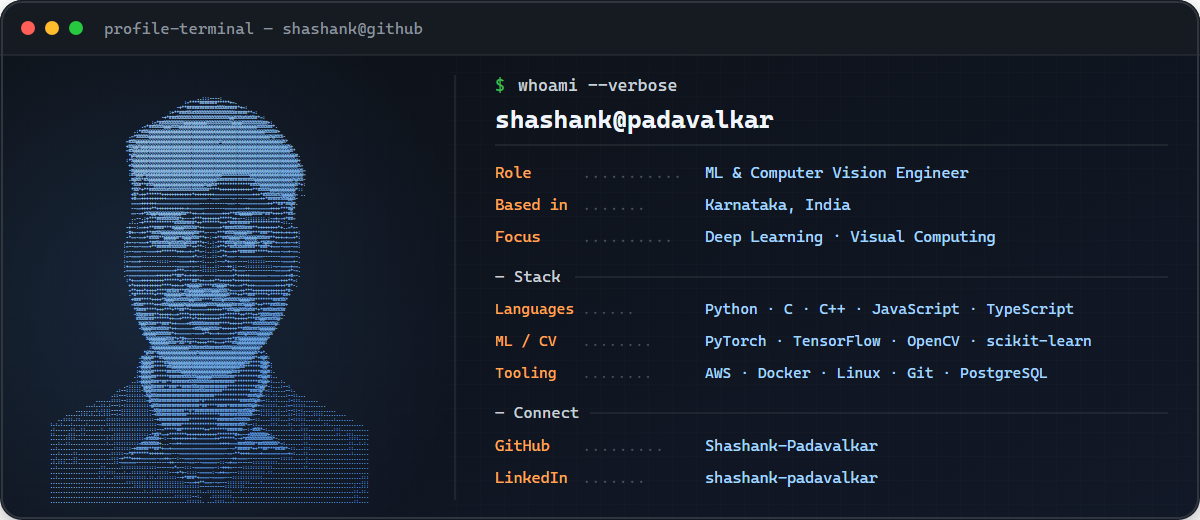
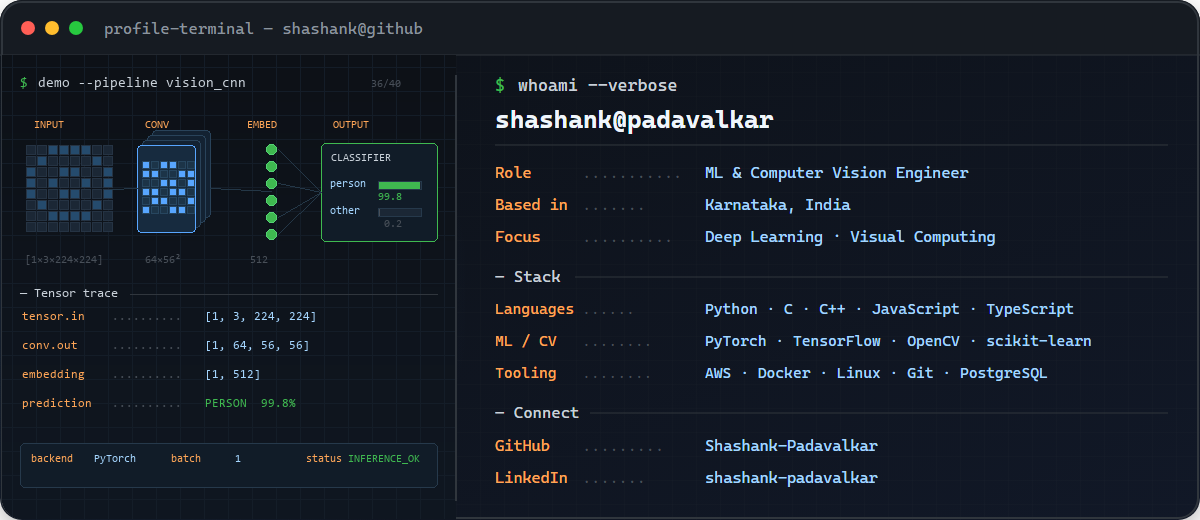
Add animated neural inference pipeline

diff --git a/scripts/render_neural_pipeline.py b/scripts/render_neural_pipeline.py
@@ -1,0 +1,334 @@
+"""Render the animated neural-network pipeline used in the profile README."""
+
+from __future__ import annotations
+
+import math
+from pathlib import Path
+
+from PIL import Image, ImageChops, ImageDraw, ImageFont
+
+
+ROOT = Path(__file__).resolve().parents[1]
+ASSETS = ROOT / "assets"
+BASE_PATH = ASSETS / "profile-terminal.png"
+GIF_PATH = ASSETS / "profile-terminal.gif"
+PNG_PATH = ASSETS / "profile-terminal.png"
+
+WIDTH, HEIGHT = 1200, 520
+FRAME_COUNT = 40
+FRAME_DURATION_MS = 90
+
+FONT_REGULAR = Path(r"C:\Windows\Fonts\consola.ttf")
+FONT_BOLD = Path(r"C:\Windows\Fonts\consolab.ttf")
+
+BG = "#0d1117"
+BG_ALT = "#101722"
+PANEL = "#161b22"
+BORDER = "#30363d"
+MUTED = "#484f58"
+TEXT = "#c9d1d9"
+WHITE = "#f0f6fc"
+BLUE = "#58a6ff"
+LIGHT_BLUE = "#a5d6ff"
+GREEN = "#3fb950"
+ORANGE = "#ffa657"
+
+
+def font(size: int, *, bold: bool = False) -> ImageFont.FreeTypeFont:
+    return ImageFont.truetype(str(FONT_BOLD if bold else FONT_REGULAR), size)
+
+
+FONT_11 = font(11)
+FONT_12 = font(12)
+FONT_13 = font(13)
+FONT_13_BOLD = font(13, bold=True)
+FONT_14 = font(14)
+FONT_15_BOLD = font(15, bold=True)
+
+
+def clamp(value: float, low: float = 0.0, high: float = 1.0) -> float:
+    return max(low, min(high, value))
+
+
+def smoothstep(value: float) -> float:
+    value = clamp(value)
+    return value * value * (3.0 - 2.0 * value)
+
+
+def phase(progress: float, start: float, end: float) -> float:
+    return smoothstep((progress - start) / (end - start))
+
+
+def interpolate(start: tuple[float, float], end: tuple[float, float], amount: float) -> tuple[float, float]:
+    return (
+        start[0] + (end[0] - start[0]) * amount,
+        start[1] + (end[1] - start[1]) * amount,
+    )
+
+
+def reset_left_pane(base: Image.Image) -> Image.Image:
+    frame = base.convert("RGB").copy()
+
+    pane = Image.new("RGB", (WIDTH, HEIGHT), BG)
+    pane_draw = ImageDraw.Draw(pane)
+    for y in range(55, 519):
+        amount = (y - 55) / 464
+        color = (
+            int(13 + 3 * amount),
+            int(17 + 6 * amount),
+            int(23 + 10 * amount),
+        )
+        pane_draw.line((0, y, 455, y), fill=color)
+
+    for x in range(12, 456, 24):
+        pane_draw.line((x, 55, x, 518), fill="#141d28", width=1)
+    for y in range(67, 519, 24):
+        pane_draw.line((2, y, 455, y), fill="#141d28", width=1)
+
+    card_mask = Image.new("L", (WIDTH, HEIGHT), 0)
+    card_mask_draw = ImageDraw.Draw(card_mask)
+    card_mask_draw.rounded_rectangle((2, 2, 1198, 518), radius=20, fill=255)
+
+    pane_mask = Image.new("L", (WIDTH, HEIGHT), 0)
+    pane_mask_draw = ImageDraw.Draw(pane_mask)
+    pane_mask_draw.rectangle((2, 55, 455, 518), fill=255)
+    pane_mask = ImageChops.multiply(card_mask, pane_mask)
+    frame.paste(pane, (0, 0), pane_mask)
+
+    draw = ImageDraw.Draw(frame)
+    draw.line((455, 75, 455, 500), fill=BORDER, width=2)
+    return frame
+
+
+def draw_glow_dot(frame: Image.Image, position: tuple[float, float], color: str, radius: int = 4) -> None:
+    x, y = position
+    draw = ImageDraw.Draw(frame, "RGB")
+    draw.ellipse((x - radius * 2, y - radius * 2, x + radius * 2, y + radius * 2), outline=MUTED, width=1)
+    draw.ellipse((x - radius, y - radius, x + radius, y + radius), fill=color)
+    draw.ellipse((x - 1, y - 1, x + 1, y + 1), fill=WHITE)
+
+
+def draw_dotted_row(
+    draw: ImageDraw.ImageDraw,
+    y: int,
+    key: str,
+    value: str,
+    *,
+    value_color: str = LIGHT_BLUE,
+) -> None:
+    draw.text((22, y), key, font=FONT_12, fill=ORANGE)
+    draw.text((112, y), "." * 10, font=FONT_12, fill=MUTED)
+    draw.text((205, y), value, font=FONT_12, fill=value_color)
+
+
+def draw_input_tensor(draw: ImageDraw.ImageDraw, scan: float) -> tuple[float, float]:
+    origin_x, origin_y = 26, 145
+    cell, gap = 9, 2
+    pixels = (
+        "..####..",
+        ".#....#.",
+        "#..##..#",
+        "#.#..#.#",
+        "#..##..#",
+        ".#....#.",
+        "..####..",
+        "........",
+    )
+    scan_row = int(scan * len(pixels))
+
+    for row, pattern in enumerate(pixels):
+        for col, bit in enumerate(pattern):
+            x = origin_x + col * (cell + gap)
+            y = origin_y + row * (cell + gap)
+            active = bit == "#"
+            fill = "#1b2735" if not active else "#254b6d"
+            outline = "#253343"
+            if row == scan_row:
+                fill = LIGHT_BLUE if active else "#1b3951"
+                outline = BLUE
+            draw.rectangle((x, y, x + cell, y + cell), fill=fill, outline=outline)
+
+    return origin_x + 8 * (cell + gap), origin_y + 4 * (cell + gap)
+
+
+def draw_feature_maps(draw: ImageDraw.ImageDraw, activation: float) -> tuple[float, float]:
+    x, y = 137, 145
+    for layer in range(3, -1, -1):
+        offset = layer * 5
+        shade = "#132232" if layer else "#172b3f"
+        edge = BLUE if activation > 0.45 and layer == 0 else "#29435a"
+        draw.rounded_rectangle((x + offset, y - offset, x + 58 + offset, y + 87 - offset), radius=4, fill=shade, outline=edge, width=1)
+
+    front_x, front_y = x, y
+    grid = 6
+    size = 7
+    gap = 2
+    wave_col = int(activation * grid)
+    for row in range(grid):
+        for col in range(grid):
+            px = front_x + 5 + col * (size + gap)
+            py = front_y + 16 + row * (size + gap)
+            energy = (row * 3 + col * 5) % 7
+            lit = activation > 0.15 and col <= wave_col and energy < 4
+            draw.rectangle(
+                (px, py, px + size, py + size),
+                fill=BLUE if lit else "#1c3448",
+                outline="#27465f",
+            )
+    return x + 73, y + 43
+
+
+def draw_embedding(draw: ImageDraw.ImageDraw, activation: float) -> tuple[float, float]:
+    x = 271
+    ys = [149, 166, 183, 200, 217, 234]
+    for index, y in enumerate(ys):
+        node_activation = phase(activation, index / 8, (index + 2) / 8)
+        radius = 5
+        fill = GREEN if node_activation > 0.55 else "#193226"
+        outline = "#54d174" if node_activation > 0.25 else "#2d5a3b"
+        draw.ellipse((x - radius, y - radius, x + radius, y + radius), fill=fill, outline=outline)
+    return x + 7, sum(ys) / len(ys)
+
+
+def draw_output(draw: ImageDraw.ImageDraw, activation: float) -> tuple[float, float]:
+    x, y, width, height = 321, 143, 116, 98
+    edge = GREEN if activation > 0.75 else "#29435a"
+    draw.rounded_rectangle((x, y, x + width, y + height), radius=5, fill="#111c28", outline=edge)
+    draw.text((x + 10, y + 9), "CLASSIFIER", font=FONT_11, fill=TEXT)
+
+    person_value = 0.998 * activation
+    other_value = max(0.002 * activation, 0.0)
+    bars = (("person", person_value, GREEN), ("other", other_value, MUTED))
+    for index, (label, value, color) in enumerate(bars):
+        row_y = y + 35 + index * 27
+        draw.text((x + 9, row_y), label, font=FONT_11, fill=LIGHT_BLUE)
+        bar_x = x + 57
+        draw.rectangle((bar_x, row_y + 3, bar_x + 43, row_y + 11), fill="#1b2735", outline="#26394b")
+        draw.rectangle((bar_x + 1, row_y + 4, bar_x + 1 + int(41 * value), row_y + 10), fill=color)
+        percentage = f"{value * 100:4.1f}" if activation > 0.05 else " -- "
+        draw.text((bar_x, row_y + 13), percentage, font=FONT_11, fill=color)
+    return x, y + height / 2
+
+
+def draw_pipeline(frame: Image.Image, index: int) -> Image.Image:
+    draw = ImageDraw.Draw(frame)
+    progress = index / (FRAME_COUNT - 1)
+
+    input_activation = phase(progress, 0.00, 0.23) * (1.0 - phase(progress, 0.94, 1.00))
+    conv_activation = phase(progress, 0.18, 0.48) * (1.0 - phase(progress, 0.94, 1.00))
+    embed_activation = phase(progress, 0.42, 0.72) * (1.0 - phase(progress, 0.96, 1.00))
+    output_activation = phase(progress, 0.68, 0.88) * (1.0 - phase(progress, 0.94, 1.00))
+
+    draw.text((20, 76), "$", font=FONT_14, fill=GREEN)
+    draw.text((38, 76), "demo --pipeline vision_cnn", font=FONT_14, fill=TEXT)
+    draw.text((371, 78), f"{index + 1:02d}/{FRAME_COUNT}", font=FONT_11, fill=MUTED)
+
+    stage_y = 119
+    draw.text((34, stage_y), "INPUT", font=FONT_11, fill=ORANGE)
+    draw.text((145, stage_y), "CONV", font=FONT_11, fill=ORANGE)
+    draw.text((247, stage_y), "EMBED", font=FONT_11, fill=ORANGE)
+    draw.text((333, stage_y), "OUTPUT", font=FONT_11, fill=ORANGE)
+
+    input_end = draw_input_tensor(draw, input_activation)
+    conv_center = draw_feature_maps(draw, conv_activation)
+    embed_center = draw_embedding(draw, embed_activation)
+    output_center = draw_output(draw, output_activation)
+
+    input_anchor = (input_end[0] - 4, input_end[1])
+    conv_anchor_left = (137, conv_center[1])
+    conv_anchor_right = (conv_center[0], conv_center[1])
+    embed_anchor = (271, embed_center[1])
+    output_anchor = (321, output_center[1])
+
+    edges = (
+        (input_anchor, conv_anchor_left),
+        (conv_anchor_right, embed_anchor),
+        ((278, 149), output_anchor),
+        ((278, 183), output_anchor),
+        ((278, 217), output_anchor),
+        ((278, 234), output_anchor),
+    )
+    for start, end in edges:
+        draw.line((*start, *end), fill="#243747", width=1)
+
+    if 0.13 <= progress <= 0.42:
+        amount = phase(progress, 0.13, 0.42)
+        draw_glow_dot(frame, interpolate(input_anchor, conv_anchor_left, amount), BLUE)
+    if 0.34 <= progress <= 0.67:
+        amount = phase(progress, 0.34, 0.67)
+        draw_glow_dot(frame, interpolate(conv_anchor_right, embed_anchor, amount), LIGHT_BLUE)
+    if 0.57 <= progress <= 0.88:
+        amount = phase(progress, 0.57, 0.88)
+        for offset, node_y in enumerate((149, 183, 217)):
+            local = clamp(amount - offset * 0.08)
+            draw_glow_dot(frame, interpolate((278, node_y), output_anchor, local), GREEN, radius=3)
+
+    draw.text((25, 254), "[1×3×224×224]", font=FONT_11, fill=MUTED)
+    draw.text((145, 254), "64×56²", font=FONT_11, fill=MUTED)
+    draw.text((250, 254), "512", font=FONT_11, fill=MUTED)
+
+    draw.text((20, 287), "— Tensor trace", font=FONT_13, fill=TEXT)
+    draw.line((130, 294, 437, 294), fill=BORDER)
+
+    draw_dotted_row(draw, 311, "tensor.in", "[1, 3, 224, 224]")
+    draw_dotted_row(draw, 340, "conv.out", "[1, 64, 56, 56]")
+    draw_dotted_row(draw, 369, "embedding", "[1, 512]")
+    prediction = "PERSON  99.8%" if output_activation > 0.9 else "pending..."
+    draw_dotted_row(draw, 398, "prediction", prediction, value_color=GREEN if output_activation > 0.9 else MUTED)
+
+    status = (
+        "ENCODING"
+        if progress < 0.24
+        else "CONVOLVING"
+        if progress < 0.52
+        else "EMBEDDING"
+        if progress < 0.74
+        else "INFERENCE_OK"
+        if progress < 0.94
+        else "RESET"
+    )
+    draw.rounded_rectangle((20, 443, 437, 487), radius=5, fill="#111c28", outline="#26394b")
+    draw.text((31, 453), "backend", font=FONT_11, fill=ORANGE)
+    draw.text((94, 453), "PyTorch", font=FONT_11, fill=LIGHT_BLUE)
+    draw.text((171, 453), "batch", font=FONT_11, fill=ORANGE)
+    draw.text((235, 453), "1", font=FONT_11, fill=LIGHT_BLUE)
+    draw.text((306, 453), "status", font=FONT_11, fill=ORANGE)
+    draw.text((348, 453), status, font=FONT_11, fill=GREEN if status == "INFERENCE_OK" else LIGHT_BLUE)
+
+    return frame
+
+
+def render() -> None:
+    if not BASE_PATH.exists():
+        raise FileNotFoundError(f"Base profile card not found: {BASE_PATH}")
+
+    base = Image.open(BASE_PATH).convert("RGB")
+    if base.size != (WIDTH, HEIGHT):
+        raise ValueError(f"Expected {WIDTH}x{HEIGHT}, got {base.size[0]}x{base.size[1]}")
+
+    clean_base = reset_left_pane(base)
+    frames = [draw_pipeline(clean_base.copy(), index) for index in range(FRAME_COUNT)]
+
+    completed_frame = 35
+    palette_source = frames[completed_frame].quantize(colors=128, method=Image.Quantize.MEDIANCUT)
+    gif_frames = [
+        frame.quantize(palette=palette_source, dither=Image.Dither.NONE)
+        for frame in frames
+    ]
+    gif_frames[0].save(
+        GIF_PATH,
+        save_all=True,
+        append_images=gif_frames[1:],
+        duration=FRAME_DURATION_MS,
+        loop=0,
+        optimize=True,
+        disposal=1,
+    )
+
+    frames[completed_frame].save(PNG_PATH, format="PNG", optimize=True)
+    print(f"Rendered {GIF_PATH} ({GIF_PATH.stat().st_size:,} bytes)")
+    print(f"Rendered {PNG_PATH} ({PNG_PATH.stat().st_size:,} bytes)")
+
+
+if __name__ == "__main__":
+    render()

diff --git a/README.md b/README.md
@@ -1,6 +1,6 @@
 <div align="center">
 
-  <img src="assets/profile-terminal.png" alt="Terminal-style profile card for Shashank Padavalkar" width="100%" />
+  <img src="assets/profile-terminal.gif" alt="Animated neural-network inference profile card for Shashank Padavalkar" width="100%" />
   <br /><br />
   <a href="https://github.com/Shashank-Padavalkar">
     <img src="https://img.shields.io/badge/GitHub-Shashank--Padavalkar-181717?style=for-the-badge&amp;logo=github" alt="Shashank Padavalkar on GitHub" />
